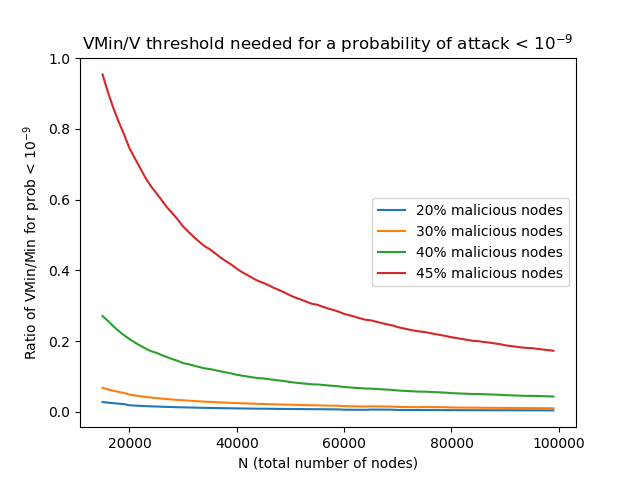
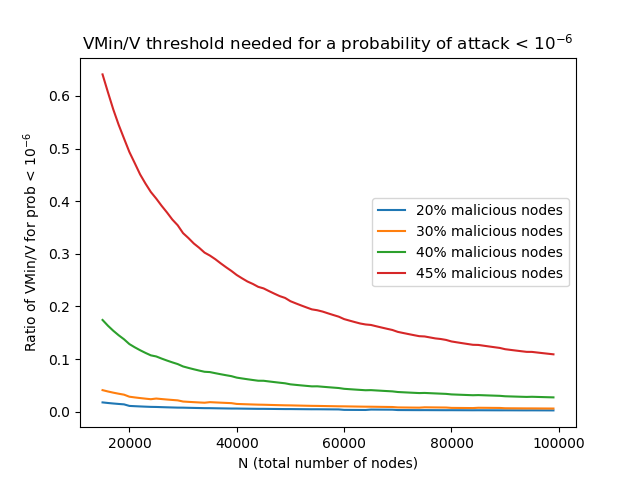
Fix math mistake in Validation_pool_to_achieve_10^-6 and 10^-9, also some tidying

diff --git a/notebooks/probabilityOfAttack/Validation_pool_to_achieve_10^-9.py b/notebooks/probabilityOfAttack/Validation_pool_to_achieve_10^-9.py
@@ -39,14 +39,8 @@ def plot_ratio_VoverN(rO,rN,thre):
                 #print(rVi,", prob --> ",proba_thre)
                 rVi = rVi + Vbin
             #print("--> ",V_thre/N) 
-            pH.append(V_thre/N)
+            pH.append(V_thre/rNi)
         return (pH)
-
-
-N = 10000
-V = 2000
-
-
 
 proba_thre = 0.000000001
 rangeN = range(5000,100000,1000)

diff --git a/notebooks/probabilityOfAttack/Validation_pool_to_achieve_10^-6.py b/notebooks/probabilityOfAttack/Validation_pool_to_achieve_10^-6.py
@@ -40,13 +40,8 @@ def plot_ratio_VoverN(rO,rN,thre):
                 #print(rVi,", prob --> ",proba_thre)
                 rVi = rVi + Vbin
             #print("--> ",V_thre/N) 
-            pH.append(V_thre/N)
+            pH.append(V_thre/rNi)
         return (pH)
-
-
-N = 10000
-V = 2000
-
 
 
 proba_thre = 0.000001

diff --git a/notebooks/probabilityOfAttack/VMin_to_achieve_10^6.py b/notebooks/probabilityOfAttack/VMin_to_achieve_10^6.py
@@ -44,11 +44,6 @@ def plot_ratio_VMinOverN(rO,rN,thre):
         return (pH)
 
 
-N = 10000
-V = N*0.2
-
-
-
 proba_thre = 0.000001 #Will stay the same as this determines the 10-9
 rangeN = range(15000,100000,1000) #Will stay the same as this determines the range of N
 rO=0.2  

diff --git a/notebooks/probabilityOfAttack/VMin_to_achieve_10^9.py b/notebooks/probabilityOfAttack/VMin_to_achieve_10^9.py
@@ -44,11 +44,6 @@ def plot_ratio_VMinOverN(rO,rN,thre):
         return (pH)
 
 
-N = 10000
-V = N*0.2
-
-
-
 proba_thre = 0.000000001
 rangeN = range(15000,100000,1000) #Will stay the same as this determines the range of N
 rO=0.2 #Stays the same 
